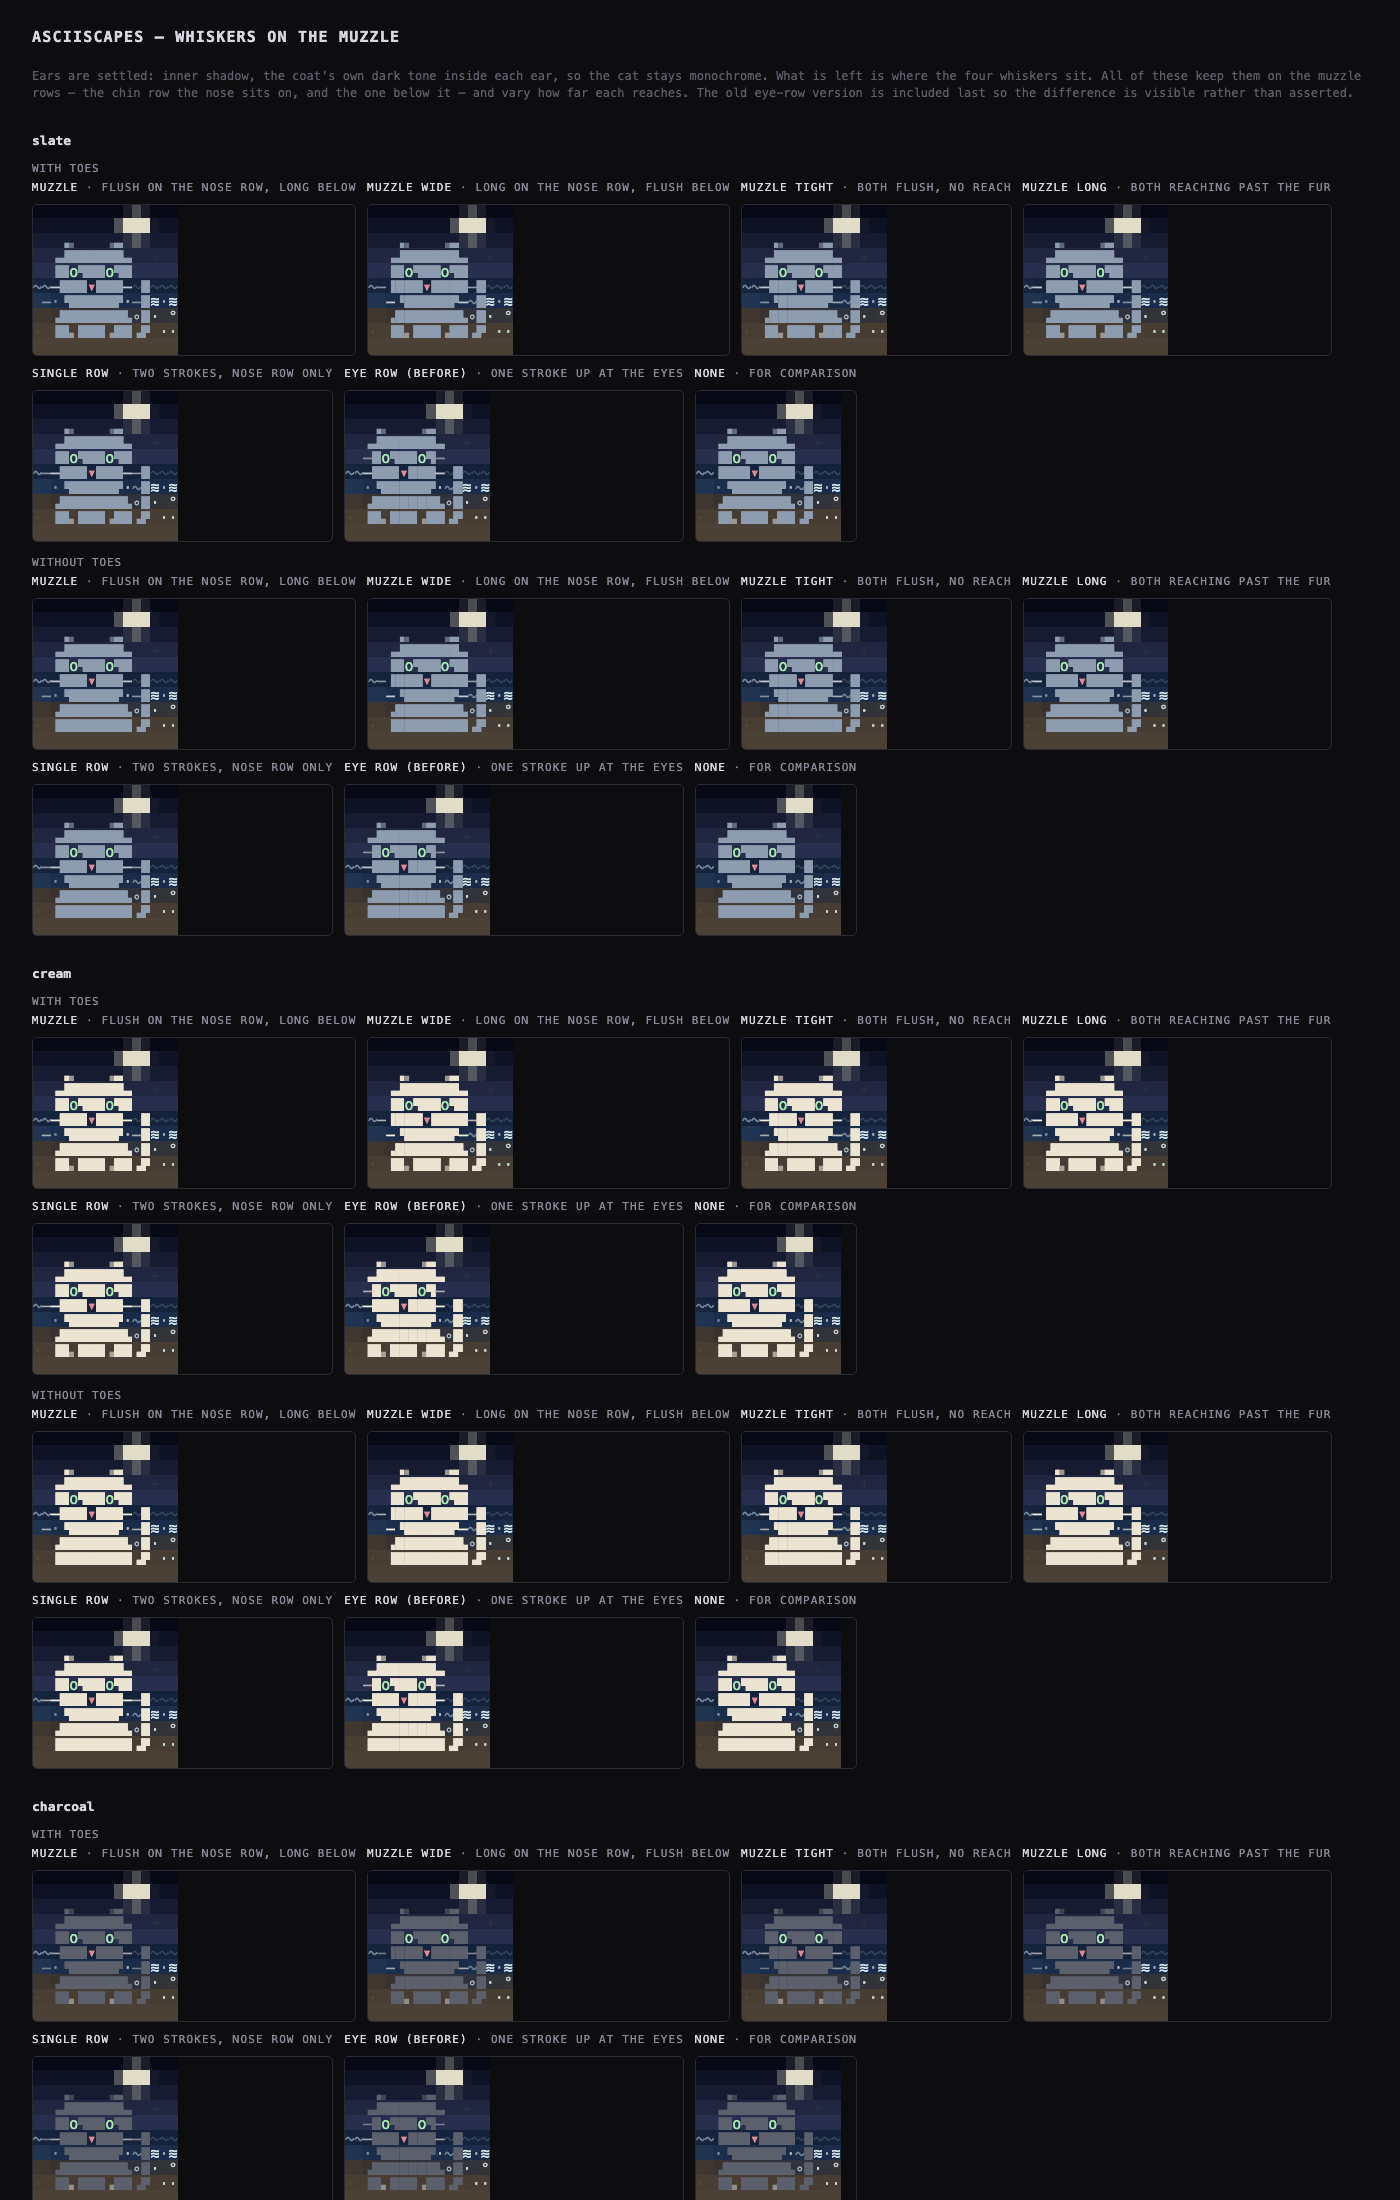
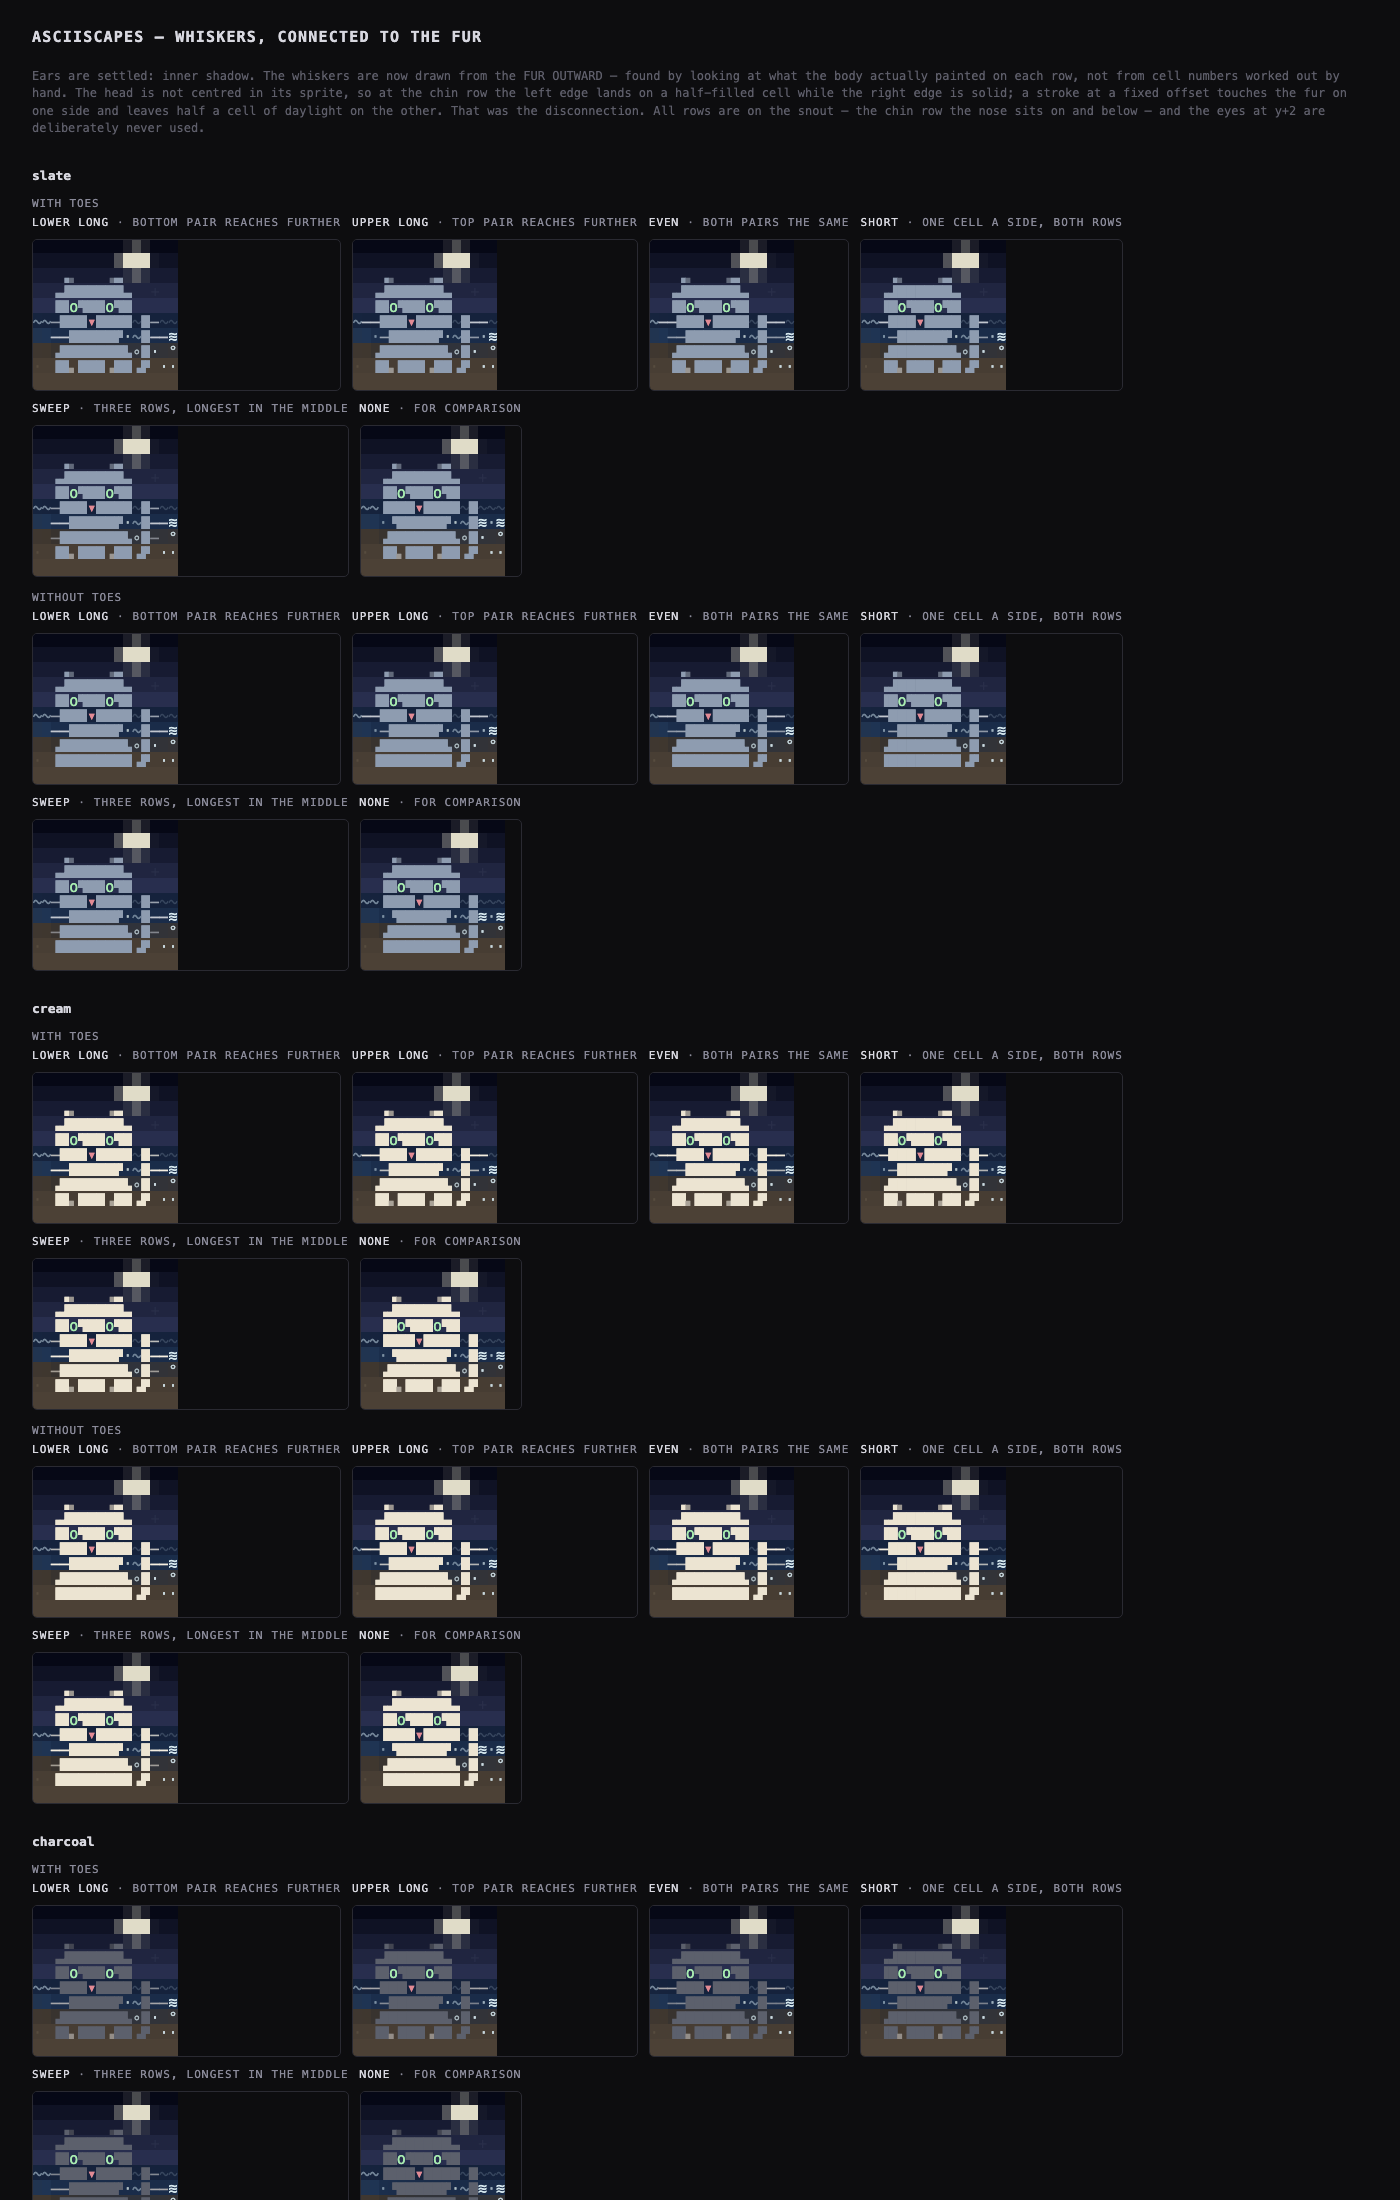
Whiskers grow out of the fur, found rather than guessed
They were still detached, and the reason is geometric rather than aesthetic:
the head is NOT centred in its sprite. At the chin row the left edge lands on a
half-filled cell while the right edge is solid fur, so a stroke placed at a
fixed offset touches the body on one side and leaves half a cell of daylight on
the other. Every placement so far has been a fixed offset, which is why moving
the number never fixed it -- one side was always wrong.

The whiskers now find the fur. furSpan looks at what the body actually painted
on each row, in absolute canvas cells, and the strokes are drawn outward from
there. Absolute rather than sprite-relative on purpose: the body is already
mirrored by the time this runs, so asking the pixels avoids mirroring a second
time and getting it wrong.

Five variants of the shape Lucas asked for, all on the snout -- the chin row the
nose sits on and below, never the eye row two above it: lower long (bottom pair
reaches further), upper long, even, short, and sweep (three rows, longest in the
middle).

Two tests hold it. One walks every whisker cell toward the body and fails if it
cannot reach solid fur without crossing empty space -- across five styles, four
states and both mirror directions. The other asserts the eye row stays clear,
because a stroke beside the eyes reads as a brow. Both were checked against the
old fixed-offset placement first and do fail on it.

Claude-Session: https://claude.ai/code/session_01AU2ieNpECMF7S4go2CwcDX

diff --git a/internal/companion/face.go b/internal/companion/face.go
@@ -30,21 +30,17 @@ type WhiskerStyle int
 
 const (
 	NoWhiskers WhiskerStyle = iota
-	// WhiskerMuzzle: four strokes, all on the muzzle rows, mixing a flush
-	// stroke with a longer one so they fan instead of stacking.
-	WhiskerMuzzle
-	// WhiskerMuzzleWide: the same idea with the long stroke on top.
-	WhiskerMuzzleWide
-	// WhiskerMuzzleTight: both rows flush, no reach.
-	WhiskerMuzzleTight
-	// WhiskerMuzzleLong: both rows reaching out.
-	WhiskerMuzzleLong
-	// WhiskerSingleRow: two strokes a side on the nose row alone, flush then
-	// long, so each side reads as one whisker leaving the face.
-	WhiskerSingleRow
-	// WhiskerEyeRow is the previous version, kept for comparison: one stroke
-	// up at the eyes, which is what Lucas objected to.
-	WhiskerEyeRow
+	// WhiskerLowerLong: bottom pair longer than the top pair.
+	WhiskerLowerLong
+	// WhiskerUpperLong: top pair longer than the bottom pair.
+	WhiskerUpperLong
+	// WhiskerEven: both pairs the same length.
+	WhiskerEven
+	// WhiskerShort: one cell a side on each row.
+	WhiskerShort
+	// WhiskerSweep: three rows, longest in the middle, so the set reads as a
+	// spray rather than a pair of lines.
+	WhiskerSweep
 )
 
 // EarStyle is how the inside of the ear is treated. Every style below sits
@@ -103,12 +99,11 @@ var WhiskerStyles = []struct {
 	Name  string
 	Note  string
 }{
-	{WhiskerMuzzle, "muzzle", "flush on the nose row, long below"},
-	{WhiskerMuzzleWide, "muzzle wide", "long on the nose row, flush below"},
-	{WhiskerMuzzleTight, "muzzle tight", "both flush, no reach"},
-	{WhiskerMuzzleLong, "muzzle long", "both reaching past the fur"},
-	{WhiskerSingleRow, "single row", "two strokes, nose row only"},
-	{WhiskerEyeRow, "eye row (before)", "one stroke up at the eyes"},
+	{WhiskerLowerLong, "lower long", "bottom pair reaches further"},
+	{WhiskerUpperLong, "upper long", "top pair reaches further"},
+	{WhiskerEven, "even", "both pairs the same"},
+	{WhiskerShort, "short", "one cell a side, both rows"},
+	{WhiskerSweep, "sweep", "three rows, longest in the middle"},
 	{NoWhiskers, "none", "for comparison"},
 }
 
@@ -144,6 +139,26 @@ var (
 	noseCol  = term.RGB{R: 226, G: 138, B: 148} // muted rose
 	innerEar = term.RGB{R: 198, G: 130, B: 132}
 )
+
+// furSpan finds the solid fur on one row of an already-drawn body, in absolute
+// canvas cells. Absolute rather than sprite-relative on purpose: the body is
+// mirrored before this runs, so asking the pixels where the cat is avoids
+// having to mirror a second time and get it wrong.
+func furSpan(l *canvas.Layer, row, x, w int) (lo, hi int, ok bool) {
+	lo, hi = -1, -1
+	for cx := x - 1; cx < x+w+1; cx++ {
+		if cx < 0 || cx >= l.W || row < 0 || row >= l.H {
+			continue
+		}
+		if c := l.Cells[row*l.W+cx]; c.Set && c.R == '█' {
+			if lo < 0 {
+				lo = cx
+			}
+			hi = cx
+		}
+	}
+	return lo, hi, lo >= 0
+}
 
 // shade lightens or darkens the coat, so a marking belongs to the cat rather
 // than being painted on it -- and so a new coat needs no new colours.
@@ -219,51 +234,60 @@ func (c *Cat) drawFace(l *canvas.Layer, x, y int, f Face, st State) {
 
 	// Whiskers.
 	//
-	// All four land around the MUZZLE. The earlier version put one stroke a
-	// side up on the eye row, which reads as a brow or a squint rather than a
-	// whisker -- a cat's whiskers come out of the snout, and at this size the
-	// eye is only two rows above it, so the difference is the whole effect.
+	// They are drawn from the FUR OUTWARD, found by looking at what the body
+	// actually painted on each row, rather than from cell numbers worked out
+	// by hand. That is not fussiness: the head is not centred in its sprite,
+	// so at the chin row the left edge lands on a half-filled cell while the
+	// right edge is solid. A stroke placed at a fixed offset therefore touches
+	// the fur on one side and leaves half a cell of daylight on the other,
+	// which is exactly the disconnection that kept showing up.
 	//
-	// The rows available are y+3, the chin row the nose sits on, and y+4 just
-	// under it. Cell 0 and 8 are the fur edge; -1 and 9 reach past it. Mixing a
-	// flush stroke with a longer one is what makes them fan rather than stack.
+	// Row y+3 is the chin row the nose sits on and y+4 is just under it, so
+	// both are on the snout. The eyes are at y+2 and are deliberately not used.
 	if f.Whiskers != NoWhiskers {
-		hi, lo := y+3, y+4
+		rows := []int{y + 3, y + 4}
 		if st == Worried {
-			hi, lo = y+4, y+5 // drooping
+			rows = []int{y + 4, y + 5} // drooping
 		}
-		near, far := 1.0, 0.65
+		near, far := 1.0, 0.7
 		if st == Resting {
-			near, far = 0.8, 0.45
+			near, far = 0.8, 0.5
 		}
-		stroke := func(row int, cells []int, a float64) {
-			for _, cell := range cells {
-				l.Plot(at(cell), row, '─', light, a)
-			}
-		}
-		var (
-			flush = []int{0, 8}
-			long  = []int{-1, 9}
-		)
+
+		// lengths[i] is how many cells the whiskers on rows[i] reach.
+		var lengths []int
+		alphas := []float64{near, far}
 		switch f.Whiskers {
-		case WhiskerMuzzle:
-			stroke(hi, flush, near)
-			stroke(lo, long, far)
-		case WhiskerMuzzleWide:
-			stroke(hi, long, far)
-			stroke(lo, flush, near)
-		case WhiskerMuzzleTight:
-			stroke(hi, flush, near)
-			stroke(lo, flush, far)
-		case WhiskerMuzzleLong:
-			stroke(hi, long, near)
-			stroke(lo, long, far)
-		case WhiskerSingleRow:
-			stroke(hi, flush, near)
-			stroke(hi, long, far)
-		case WhiskerEyeRow:
-			stroke(y+3, flush, near)
-			stroke(y+2, flush, far)
+		case WhiskerLowerLong:
+			lengths = []int{1, 2}
+			alphas = []float64{far, near}
+		case WhiskerUpperLong:
+			lengths = []int{2, 1}
+		case WhiskerEven:
+			lengths = []int{2, 2}
+		case WhiskerShort:
+			lengths = []int{1, 1}
+		case WhiskerSweep:
+			rows = append(rows, rows[len(rows)-1]+1)
+			if st == Worried {
+				rows = []int{y + 4, y + 5, y + 6}
+			}
+			lengths = []int{1, 2, 1}
+			alphas = []float64{far, near, far * 0.8}
+		}
+
+		for i, row := range rows {
+			if i >= len(lengths) {
+				break
+			}
+			lo, hi, ok := furSpan(l, row, x, w)
+			if !ok {
+				continue
+			}
+			for n := 1; n <= lengths[i]; n++ {
+				l.Plot(lo-n, row, '─', light, alphas[i])
+				l.Plot(hi+n, row, '─', light, alphas[i])
+			}
 		}
 	}
 

diff --git a/faces.go b/faces.go
@@ -41,12 +41,14 @@ func facePage(seed int64) string {
 	   text-transform:uppercase;margin:14px 0 6px}
 	h2+p{margin-top:4px}
 	</style>`)
-	b.WriteString(`<h1>asciiscapes &mdash; whiskers on the muzzle</h1>`)
-	b.WriteString(`<p class="nt">Ears are settled: inner shadow, the coat's own dark tone inside ` +
-		`each ear, so the cat stays monochrome. What is left is where the four whiskers sit. ` +
-		`All of these keep them on the muzzle rows &mdash; the chin row the nose sits on, and the ` +
-		`one below it &mdash; and vary how far each reaches. The old eye-row version is included ` +
-		`last so the difference is visible rather than asserted.</p>`)
+	b.WriteString(`<h1>asciiscapes &mdash; whiskers, connected to the fur</h1>`)
+	b.WriteString(`<p class="nt">Ears are settled: inner shadow. The whiskers are now drawn from the FUR ` +
+		`OUTWARD &mdash; found by looking at what the body actually painted on each row, not from ` +
+		`cell numbers worked out by hand. The head is not centred in its sprite, so at the chin row ` +
+		`the left edge lands on a half-filled cell while the right edge is solid; a stroke at a ` +
+		`fixed offset touches the fur on one side and leaves half a cell of daylight on the other. ` +
+		`That was the disconnection. All rows are on the snout &mdash; the chin row the nose sits ` +
+		`on and below &mdash; and the eyes at y+2 are deliberately never used.</p>`)
 
 	cell := func(label, note, body string) {
 		fmt.Fprintf(&b, `<div class="col"><div class="lbl"><b>%s</b>%s</div><div class="win">%s</div></div>`,
@@ -73,28 +75,28 @@ func facePage(seed int64) string {
 		}
 	}
 
-	b.WriteString(`<h2>"muzzle" across all five coats</h2><div class="row">`)
+	b.WriteString(`<h2>"lower long" across all five coats</h2><div class="row">`)
 	for _, coat := range companion.CoatOrder {
-		cell(coat, "", portrait(face(companion.WhiskerMuzzle, true), companion.Coats[coat],
+		cell(coat, "", portrait(face(companion.WhiskerLowerLong, true), companion.Coats[coat],
 			companion.Working, term.ProfileTrueColor, 3.1))
 	}
 	b.WriteString(`</div>`)
 
 	b.WriteString(`<h2>The same, as Terminal.app paints it</h2><div class="row">`)
 	for _, coat := range companion.CoatOrder {
-		cell(coat, " &middot; 256", portrait(face(companion.WhiskerMuzzle, true), companion.Coats[coat],
+		cell(coat, " &middot; 256", portrait(face(companion.WhiskerLowerLong, true), companion.Coats[coat],
 			companion.Working, term.Profile256, 3.1))
 	}
 	b.WriteString(`</div>`)
 
-	b.WriteString(`<h2>Every state &mdash; slate, "muzzle"</h2>`)
+	b.WriteString(`<h2>Every state &mdash; slate, "lower long"</h2>`)
 	b.WriteString(`<p class="nt">The whiskers drop a row when something is broken.</p><div class="row">`)
 	for _, st := range []struct {
 		s companion.State
 		n string
 	}{{companion.Resting, "resting"}, {companion.Working, "working"},
 		{companion.NeedsYou, "needs you"}, {companion.Worried, "broken"}} {
-		cell(st.n, "", portrait(face(companion.WhiskerMuzzle, true), companion.Coats["slate"],
+		cell(st.n, "", portrait(face(companion.WhiskerLowerLong, true), companion.Coats["slate"],
 			st.s, term.ProfileTrueColor, 3.1))
 	}
 	b.WriteString(`</div>`)

diff --git a/internal/companion/whisker_test.go b/internal/companion/whisker_test.go
@@ -1,0 +1,90 @@
+package companion
+
+import (
+	"testing"
+
+	"github.com/donlucasx/asciiscapes/internal/canvas"
+)
+
+// Every whisker must touch the fur.
+//
+// They used to be placed at fixed cell offsets, which looks symmetrical in the
+// source and is not on screen: the head is not centred in its sprite, so at the
+// chin row the left edge lands on a half-filled cell while the right edge is
+// solid. A fixed offset therefore connects on one side and leaves half a cell
+// of daylight on the other.
+func TestWhiskersTouchTheFur(t *testing.T) {
+	styles := []struct {
+		s WhiskerStyle
+		n string
+	}{
+		{WhiskerLowerLong, "lower long"}, {WhiskerUpperLong, "upper long"},
+		{WhiskerEven, "even"}, {WhiskerShort, "short"}, {WhiskerSweep, "sweep"},
+	}
+	for _, mirror := range []bool{false, true} {
+		for _, st := range []State{Resting, Working, NeedsYou, Worried} {
+			for _, w := range styles {
+				c := canvas.New(20, 10, canvas.AlphaFar, canvas.AlphaMid, canvas.AlphaNear)
+				cat := NewCat()
+				cat.FaceLeft(mirror)
+				cat.SetFace(Face{Nose: true, Toes: true, Whiskers: w.s, Ears: EarInnerDark})
+				cat.Draw(c.Near(), 3, 1, 3.1, st)
+
+				l := c.Near()
+				found := 0
+				for y := 0; y < l.H; y++ {
+					for x := 0; x < l.W; x++ {
+						cell := l.Cells[y*l.W+x]
+						if !cell.Set || cell.R != '─' {
+							continue
+						}
+						found++
+						// Walk toward the body; a solid fur cell must be
+						// reachable without crossing empty space.
+						if !touchesFur(l, x, y, -1) && !touchesFur(l, x, y, +1) {
+							t.Errorf("%s mirror=%v state=%v: whisker at (%d,%d) is not connected to the fur",
+								w.n, mirror, st, x, y)
+						}
+					}
+				}
+				if found == 0 {
+					t.Errorf("%s mirror=%v state=%v: no whiskers drawn at all", w.n, mirror, st)
+				}
+			}
+		}
+	}
+}
+
+// touchesFur walks in direction d from x until it hits solid fur (connected) or
+// an empty cell (a gap, so not connected).
+func touchesFur(l *canvas.Layer, x, y, d int) bool {
+	for cx := x + d; cx >= 0 && cx < l.W; cx += d {
+		cell := l.Cells[y*l.W+cx]
+		switch {
+		case cell.Set && cell.R == '█':
+			return true
+		case cell.Set && cell.R == '─':
+			continue // another whisker cell in the same run
+		default:
+			return false
+		}
+	}
+	return false
+}
+
+// The eye row must stay clear: a stroke beside the eyes reads as a brow.
+func TestWhiskersStayOffTheEyeRow(t *testing.T) {
+	c := canvas.New(20, 10, canvas.AlphaFar, canvas.AlphaMid, canvas.AlphaNear)
+	cat := NewCat()
+	cat.SetFace(Face{Nose: true, Whiskers: WhiskerLowerLong})
+	const top = 1
+	cat.Draw(c.Near(), 3, top, 3.1, Working)
+
+	l := c.Near()
+	eyeRow := top + 2
+	for x := 0; x < l.W; x++ {
+		if cell := l.Cells[eyeRow*l.W+x]; cell.Set && cell.R == '─' {
+			t.Errorf("a whisker landed on the eye row at x=%d", x)
+		}
+	}
+}
